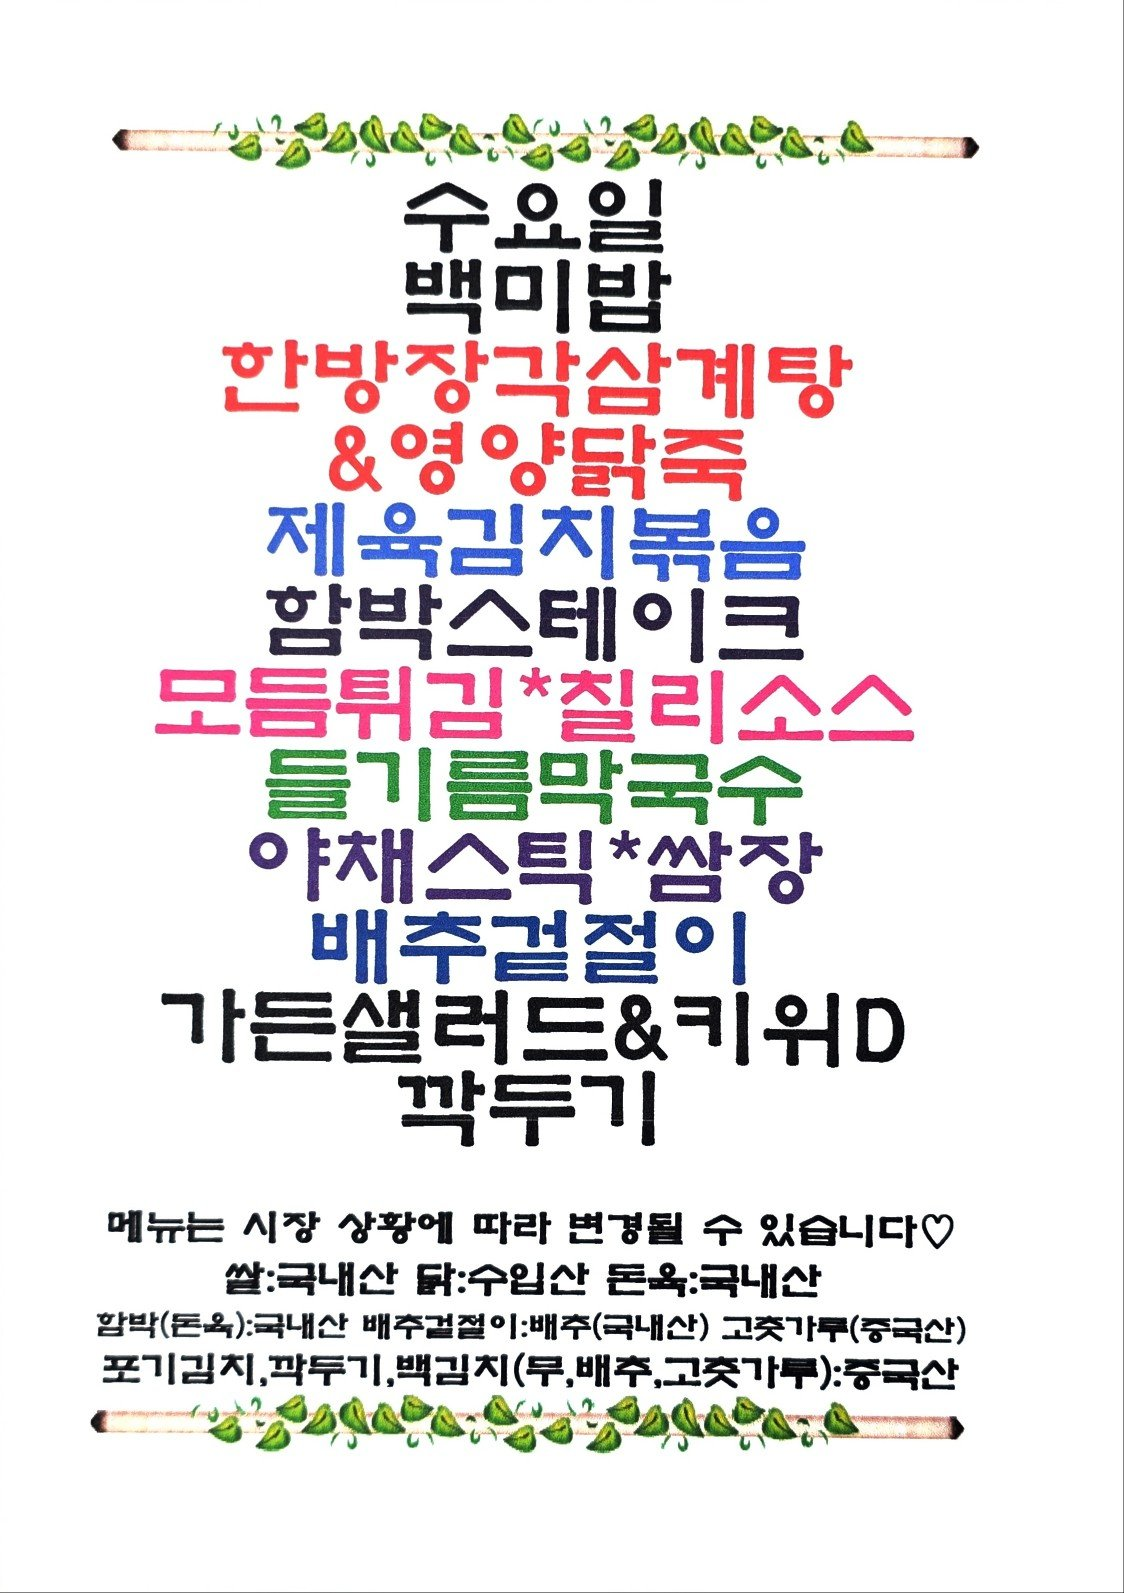
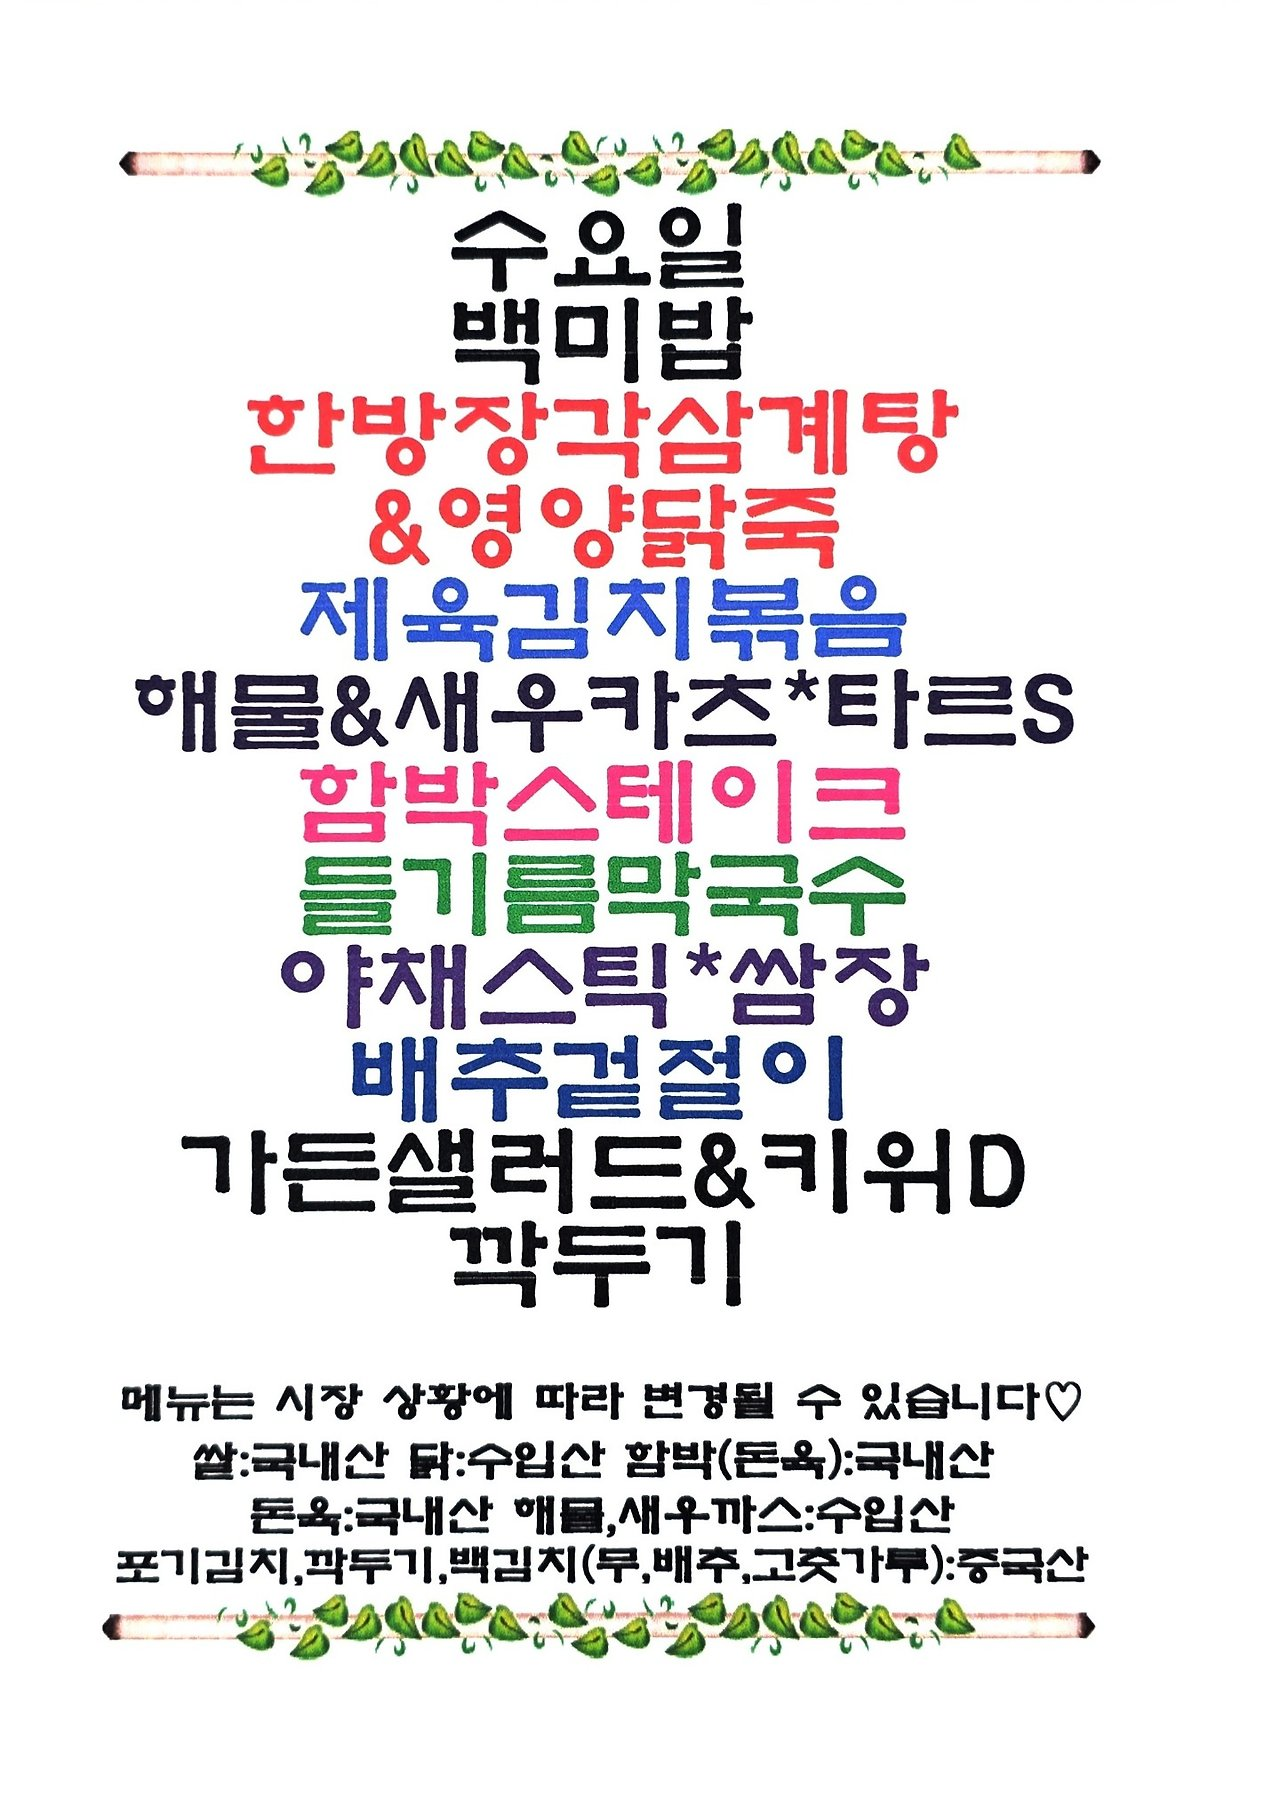
Update menu board assets

Changed region(s): [[0.0623, 0.0615, 0.8719, 0.9228], [0.9964, 0.0, 1.0, 1.0]]

diff --git a/menu-today/index.html b/menu-today/index.html
@@ -209,7 +209,7 @@
 
     <section class="meta-bar">
       <div class="meta-card"><div class="meta-label">기준 날짜</div><div class="meta-value">2026년 7월 15일 수요일</div></div>
-      <div class="meta-card"><div class="meta-label">최종 가져온 시간</div><div class="meta-value">2026-07-15 10:14:16</div></div>
+      <div class="meta-card"><div class="meta-label">최종 가져온 시간</div><div class="meta-value">2026-07-15 10:18:49</div></div>
       <div class="meta-card"><div class="meta-label">확인 완료</div><div class="meta-value">9개 식당</div></div>
       <div class="meta-card"><div class="meta-label">준비중</div><div class="meta-value">3개 채널</div></div>
     </section>
@@ -295,7 +295,7 @@
             <div class="sub">에이스테크노타워10차</div>
           </div>
         </div>
-        <div class="menu-inline-image"><img src="./images/thefoodsketch.png" alt="더푸드스케치 식단 이미지"></div><ul><li>BO .한방닭다리백숙</li><li>wt 제육볶음</li><li>껏잎육전</li><li>메밀막국수</li><li>Sy 오이스틱 / 쌈장</li><li>Lu 콩나물무짐</li><li>가든샐러드 / 드레싱</li><li>배추겉절이 / 음료</li><li>go 한방닮다리백숙</li></ul>
+        <div class="menu-inline-image"><img src="./images/thefoodsketch.png" alt="더푸드스케치 식단 이미지"></div><ul><li>BO .한방닭다리백숙</li><li>wt 제육볶음</li><li>껏잎육전</li><li>메밀막국수</li><li>Sy 오이스틱 / 쌈장</li><li>Lu 콩나물무짐</li><li>가든샐러드 &amp; 드레싱</li><li>배추겉절이 / 음료</li><li>go 한방닮다리백숙</li></ul>
       </article>
 
       <article class="restaurant-card">
@@ -305,7 +305,7 @@
             <div class="sub">스타밸리</div>
           </div>
         </div>
-        <div class="menu-inline-image"><img src="./images/starvalley-food4u-post.png" alt="스타밸리푸드포유 식단 이미지"></div><ul><li>수요일</li><li>백미밥</li><li>한방장과삼계탕</li><li>감박스테이크</li><li>모듬튀김^칠리소스</li><li>늘기름막국수</li><li>야재스틱*쌈장</li><li>배주걷절이</li><li>가든샐러드 &amp; 키위D</li><li>팍두기</li></ul>
+        <div class="menu-inline-image"><img src="./images/starvalley-food4u-post.png" alt="스타밸리푸드포유 식단 이미지"></div><ul><li>벽미밥</li><li>&amp; 영양닭죽</li><li>할박스테이크</li><li>들기 St</li><li>비 주결절이</li><li>너나</li><li>수요일</li><li>하방장곽삼계탕</li></ul>
       </article>
     </section>
 

diff --git a/guro-menu/index.html b/guro-menu/index.html
@@ -32,7 +32,7 @@
   </header>
   <section class="meta">
     <div><small>기준 날짜</small><strong>2026년 7월 15일 수요일</strong></div>
-    <div><small>최종 갱신</small><strong>2026-07-15 10:14:26</strong></div>
+    <div><small>최종 갱신</small><strong>2026-07-15 10:19:00</strong></div>
     <div><small>등록 식당</small><strong>5개</strong></div>
   </section>
   <div class="notice">공개 카카오 채널의 메뉴 이미지를 자동 수집하고 OCR로 정리합니다. 텍스트에 오타가 있을 수 있으니 식단 이미지를 함께 확인해 주세요.</div>
